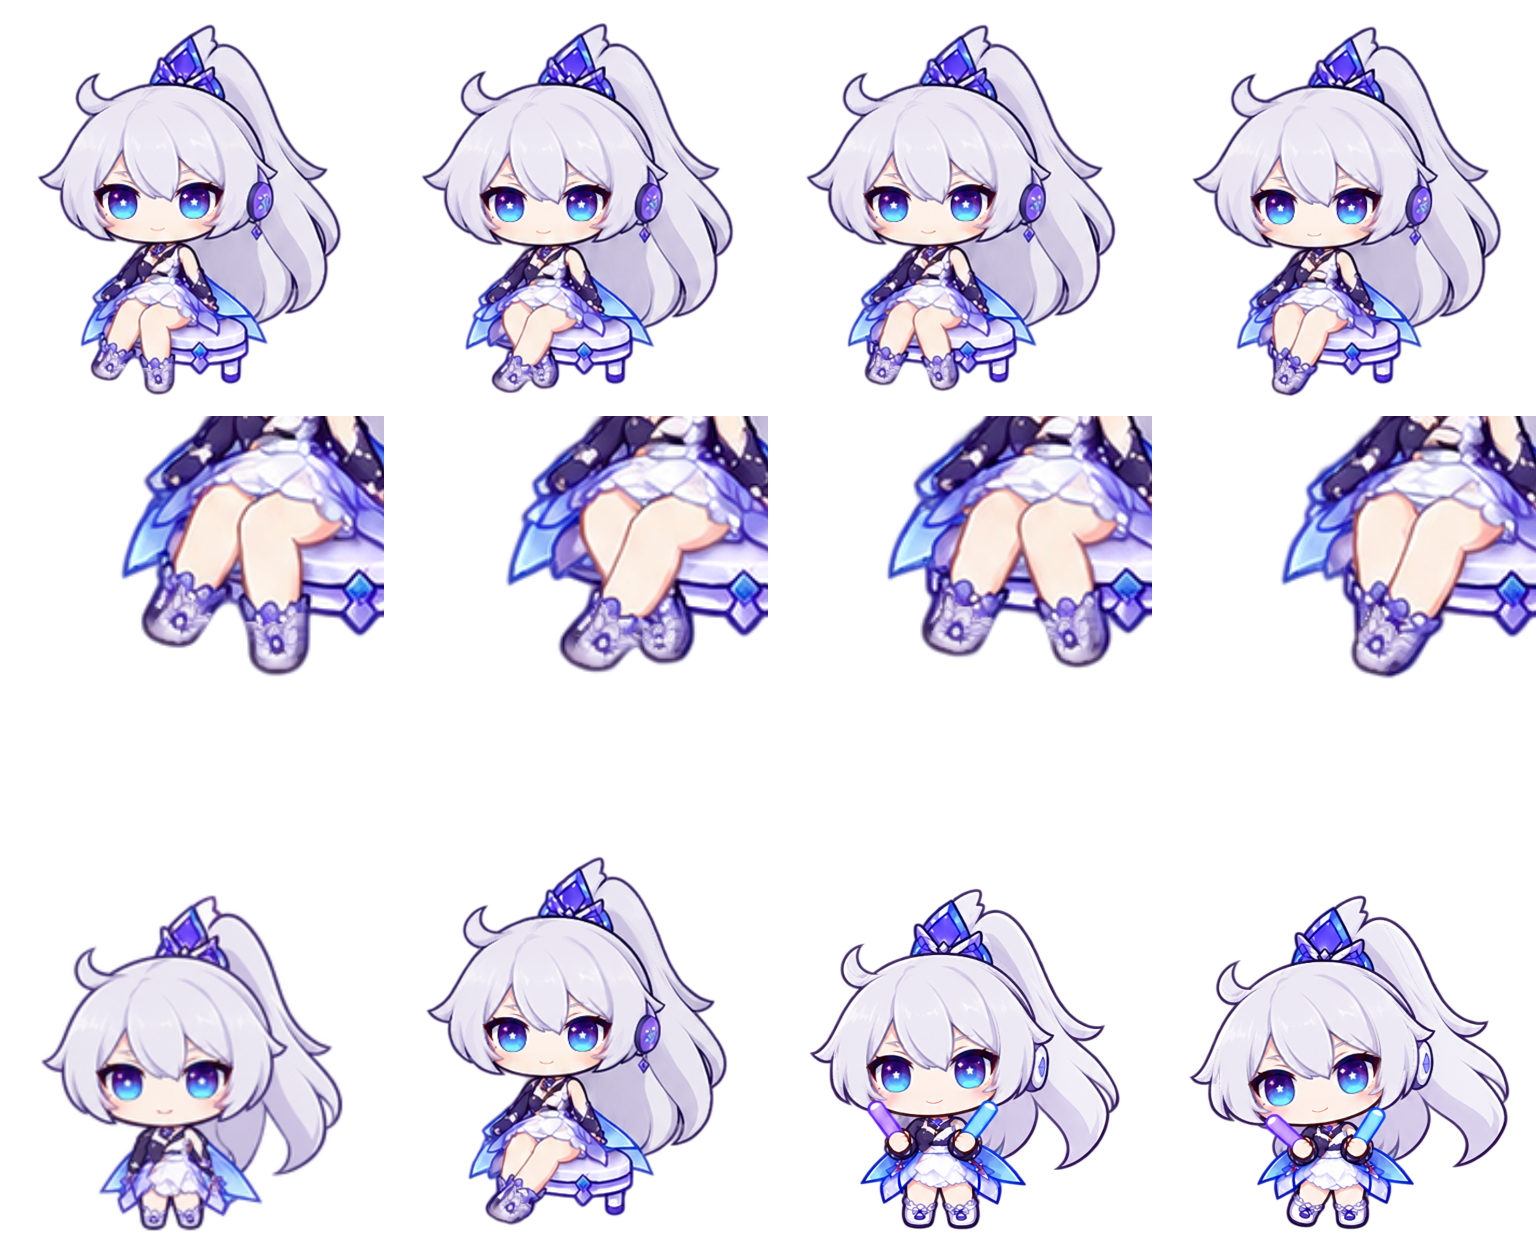
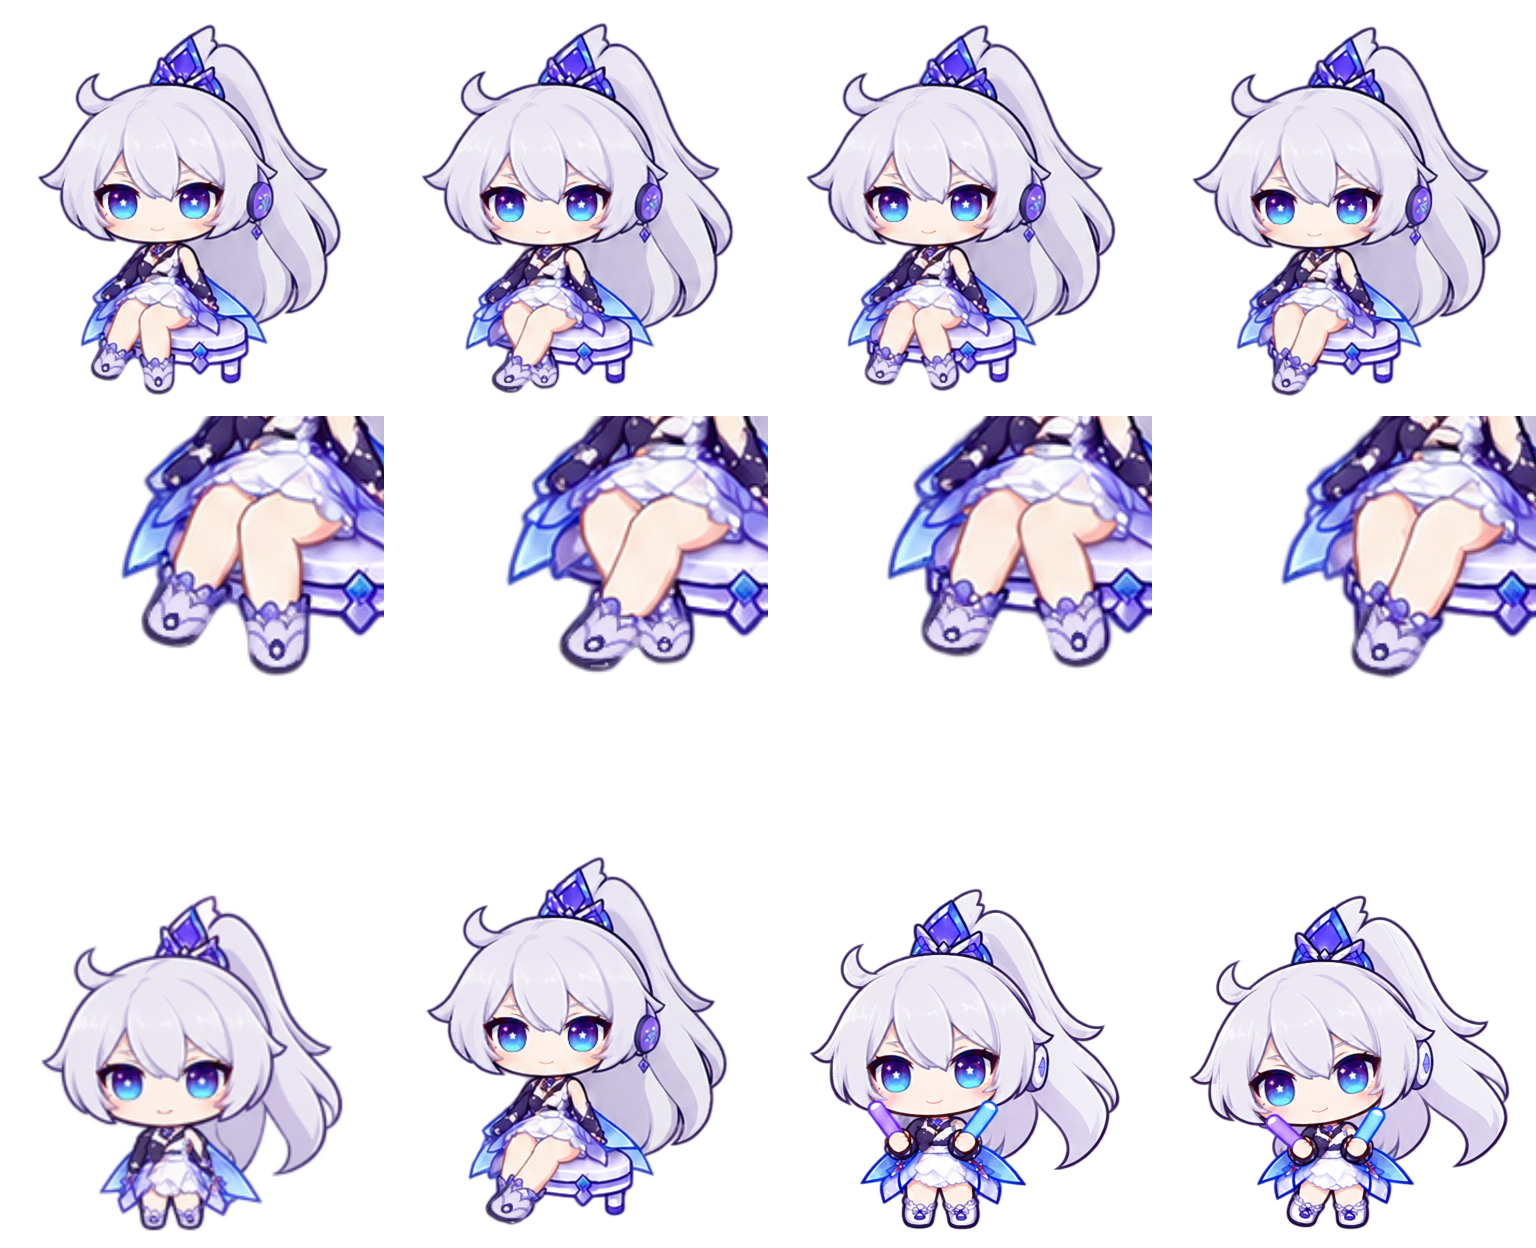
Restore seated ribbon and stool cutouts and repaint Time Runner shoes

diff --git a/source/Maintenance.cs b/source/Maintenance.cs
@@ -4,7 +4,7 @@ namespace KianaPet {
  public sealed class PackageManifest {public int schema;public string product,version;public PackageEntry[] files;}
  public sealed class PreparedUpdate {public string Folder,Version,Notes;public PackageManifest Manifest;}
  public static class Maintenance {
-  public const string Version="0.9.14";
+  public const string Version="0.9.15";
   public static bool RuntimeFile(string path){return Regex.IsMatch(path,@"^(assets/|licenses/|docs/demo/|docs/(?:music-animations|toolbar-styles|optional-connections)\.md$|docs/music-generation-\d+\.\d+\.\d+\.json$|KianaHookReceiver\.exe(?:\.config)?$|KianaDesktopPet\.exe(?:\.config)?$|tools/(?:Send-TaskNotice|Invoke-TaskWithNotice)\.ps1$|docs/companion-features\.md$|README\.md$|CHANGELOG\.md$|ASSET_NOTICE\.md$|LICENSE$|update-worker\.ps1$)");}
   public static string SafePath(string root,string relative){if(string.IsNullOrWhiteSpace(relative)||relative.Contains(":")||relative.Contains("\\")||relative.StartsWith("/")||relative.Split('/').Any(p=>p==".."||p=="."||p.Length==0)||relative.Split('/').Any(p=>p.EndsWith(".")||p.EndsWith(" ")))throw new Exception("安装包包含无效路径。");string prefix=Path.GetFullPath(root).TrimEnd(Path.DirectorySeparatorChar)+Path.DirectorySeparatorChar;string target=Path.GetFullPath(Path.Combine(root,relative));if(!target.StartsWith(prefix,StringComparison.OrdinalIgnoreCase))throw new Exception("文件超出安装范围。");return target;}
   public static string Hash(Stream stream){using(var sha=SHA256.Create())return BitConverter.ToString(sha.ComputeHash(stream)).Replace("-","").ToLowerInvariant();}

diff --git a/README.md b/README.md
@@ -2,6 +2,10 @@
 
 ## 效果演示
 
+### 坐姿的鞋面与透明留白（0.9.15）
+
+时砾逐光的三种坐姿按前期画稿重画鞋尖花纹和小珠。冬祈新愿的轻晃与侧向点头恢复了椅脚和鞋边的留白，并逐帧校准三种坐姿的马尾飘带与发顶边缘。[查看实际动画的局部前后对照](docs/demo/seated-details-0.9.15.png)
+
 ### 三种坐姿与冬祈新愿应援（0.9.14）
 
 三套 Q 版衣装的原版坐姿、头部轻晃、侧向点头，以及冬祈新愿的两种应援均已逐帧对齐早期画稿。下载后打开对照页，可同步播放前后版本，逐帧查看发缘、衣摆和鞋面，也可切换深浅底色。[查看全部 11 组动作](docs/demo/music-style-0.9.14/index.html) · [查看局部对比图](docs/demo/music-style-0.9.14/comparison.png)
@@ -66,7 +70,7 @@
 git clone https://github.com/FeiyangHong/Kiana-Desktop-Pet.git
 cd Kiana-Desktop-Pet
 .\build-release.ps1
-.\dist\Kiana-Desktop-Pet-0.9.14-Windows\install.ps1 -InstallRoot 'E:\Kiana-Desktop-Pet\runtime\KianaDesktopPet'
+.\dist\Kiana-Desktop-Pet-0.9.15-Windows\install.ps1 -InstallRoot 'E:\Kiana-Desktop-Pet\runtime\KianaDesktopPet'
 ```
 
 `-InstallRoot` 可改为本机希望保存程序、设置与日志的目录；ChatGPT 平滑联动组件会装在其同级的 `KianaSmoothPet`。首次启动桌宠请使用安装器生成的“琪亚娜桌宠”快捷方式。另一台电脑拉取更新后重新构建、安装即可；本机设置会保留并在更新前备份。

diff --git a/CHANGELOG.md b/CHANGELOG.md
@@ -1,3 +1,9 @@
+# 0.9.15 · 冬祈新愿坐姿留白与时砾逐光鞋面
+
+- 冬祈新愿三种坐姿分别修复马尾与晶饰飘带之间的透明空隙，收窄晶冠尖角间与发顶的外缘。按原版坐姿每一帧的椅脚与鞋边，校准头部轻晃和侧向点头的下方留白。
+- 时砾逐光三种坐姿重新定位每只鞋的鞋尖花纹与小珠，按各帧脚尖朝向和前后遮挡校正花瓣线、鞋面和鞋底。
+- 新增坐姿轻晃前后对照动画，包含前期画稿、鞋部放大和有色背景透出的效果。
+
 # 0.9.14 · 三种坐姿与冬祈新愿应援
 
 - 校正冬祈新愿轻微应援、活力应援的银发高光过渡和晶饰描边，逐帧核对举棒时的遮挡与闭眼笑。
